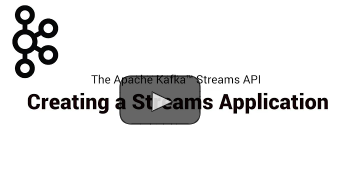
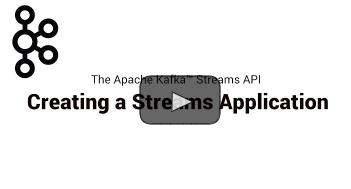
Clean up images remove the size attributes

diff --git a/32/streams/index.html b/32/streams/index.html
@@ -54,7 +54,7 @@
        <div class="video__series__grid">
          <div class="yt__video__block">
             <div class="yt__video__inner__block">
-                <img id="iframe-placeholder-intro" width="600" height="325" 
+                <img id="iframe-placeholder-intro" 
                       border="1px"
                       class="yt__placeholder video_1"
                       style="display:block"
@@ -62,21 +62,21 @@
                       onclick="loadVideo('iframe-placeholder-intro', 'Z3JKCLG3VP4?rel=0&showinfo=0&end=602', 'video_1')" />
                       <span class="third-party" style="display:block" id="video_1_warn">(Clicking the image will load a video from YouTube)</span>
 
-                <img id="iframe-placeholder-creating" width="600" height="325" 
+                <img id="iframe-placeholder-creating"  
                       border="1px"
                       class="yt__placeholder video_2" 
                       src="/{{version}}/images/creating-streams-iframe-placeholder.png" 
                       onclick="loadVideo('iframe-placeholder-creating', 'LxxeXI1mPKo?rel=0&showinfo=0&end=622', 'video_2')" />
                       <span class="third-party" id="video_2_warn">(Clicking the image will load a video from YouTube)</span>
 
-                <img id="iframe-placeholder-transforming" width="600" height="325" 
+                <img id="iframe-placeholder-transforming" 
                       border="1px"
                       class="yt__placeholder video_3" 
                       src="/{{version}}/images/transforming_part_1-iframe-placeholder.png" 
                       onclick="loadVideo('iframe-placeholder-transforming', '7JYEEx7SBuE?rel=0&showinfo=0end=557', 'video_3')" />
                       <span class="third-party" id="video_3_warn">(Clicking the image will load a video from YouTube)</span>
 
-                <img id="iframe-placeholder-transforming-two" width="600" height="325" 
+                <img id="iframe-placeholder-transforming-two"  
                       border="1px"
                       class="yt__placeholder video_4" 
                       src="/{{version}}/images/transforming_part_2-iframe-placeholder.png" 
